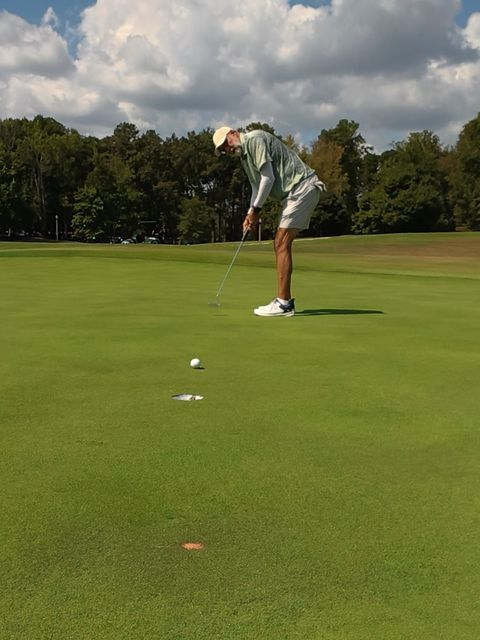
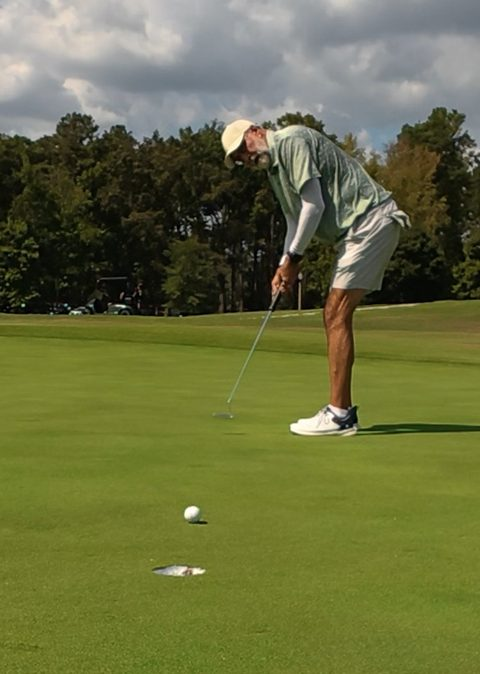
Tighter putt crop per Jim's markup, full aside width, two-line caption

diff --git a/index.html b/index.html
@@ -9,7 +9,7 @@
   <link rel="preconnect" href="https://fonts.googleapis.com" />
   <link rel="preconnect" href="https://fonts.gstatic.com" crossorigin />
   <link href="https://fonts.googleapis.com/css2?family=Outfit:wght@400;500;600;700&display=swap" rel="stylesheet" />
-  <link rel="stylesheet" href="css/styles.css?v=25" />
+  <link rel="stylesheet" href="css/styles.css?v=26" />
 </head>
 <body data-page="home">
   <header class="site-header">
@@ -57,8 +57,8 @@
           <p data-copy="lanes-intro" style="white-space: pre-wrap;"><strong>Learn-Forward:</strong> I am a relative neophyte in the golf industry, and I will support or fill any role, however perceptually menial... if I am learning.  And I am keen to match the requirements of the PGA Associates programme in these engagements.<br><br><strong>Experience-Led:</strong> I also have a long, multifaceted career and unique experience that may be valuable to your organisation via a project or fractional engagement.</p>
         </div>
           <figure class="photo photo-portrait">
-            <a class="photo-link" href="assets/first-even-par-putt.jpg" data-lightbox="" aria-label="Enlarge photo"><img src="assets/first-even-par-putt-sm.jpg" srcset="assets/first-even-par-putt-sm.jpg 480w, assets/first-even-par-putt.jpg 900w" sizes="(min-width: 720px) 260px, 70vw" width="480" height="640" alt="Jim putting on the final green at Pursell Farms, ball rolling towards the hole" loading="lazy" decoding="async"></a>
-            <figcaption>Final putt on my first even par round 😊 Pursell Farms - 16 Sep 2026</figcaption>
+            <a class="photo-link" href="assets/first-even-par-putt.jpg" data-lightbox="" aria-label="Enlarge photo"><img src="assets/first-even-par-putt-sm.jpg" srcset="assets/first-even-par-putt-sm.jpg 480w, assets/first-even-par-putt.jpg 900w" sizes="(min-width: 720px) 34vw, 100vw" width="480" height="674" alt="Jim putting on the final green at Pursell Farms, ball rolling towards the hole" loading="lazy" decoding="async"></a>
+            <figcaption>Final putt on my first even par round 😊<br>Pursell Farms - 16 Sep 2026</figcaption>
           </figure>
         </div>
         <div class="plank-grid" data-lanes=""><article class="plank"><div class="plank-icon" aria-hidden="true"><img src="assets/icons/player.svg?v=24" alt="" width="120" height="120" decoding="async"></div><h3>Player Development</h3><p class="plank-blurb">Impact-based development using the causal value framework: inputs, outputs, outcomes, impact.</p><ul class="plank-ex"><li><span class="lane">Learn-forward</span><span class="ex">Range and academy support, junior clinics, walk-with coaching days, bag-room and covering player-facing shifts.</span></li><li><span class="lane exp">Experience-led</span><span class="ex">Programme design, cohort measurement, and impact frameworks tied to what players actually retain.</span></li></ul></article><article class="plank"><div class="plank-icon" aria-hidden="true"><img src="assets/icons/tournaments.svg?v=24" alt="" width="120" height="120" decoding="async"></div><h3>Tournament Programming</h3><p class="plank-blurb">The entertaining, social and skills-testing nature of Tournaments is enticing. Ask me to help with either...</p><ul class="plank-ex"><li><span class="lane">Learn-forward</span><span class="ex">Marshaling, scoring, registration, hole setup, and day-of operations wherever an extra pair of hands matters.</span></li><li><span class="lane exp">Experience-led</span><span class="ex">Format design, skill-focused fields, communications &amp; marketing, and programming that makes the contest social, fun and/or skill-building.</span></li></ul></article><article class="plank"><div class="plank-icon" aria-hidden="true"><img src="assets/icons/media.svg?v=24" alt="" width="120" height="120" decoding="async"></div><h3>Media <br>Production</h3><p class="plank-blurb">Video and graphics production for courses, equipment providers, retailers, and other golf entities.</p><ul class="plank-ex"><li><span class="lane">Learn-forward</span><span class="ex">Grip and camera for on-course shoot days, simple editing, graphics production for meeting decks and comms, and production grunt work done well. Even Powerpoints. 😉</span></li><li><span class="lane exp">Experience-led</span><span class="ex">Story, series design, and finished packages that serve a commercial or programme goal for any of your audiences: crew, members, leadership or investors.</span></li></ul></article><article class="plank"><div class="plank-icon" aria-hidden="true"><img src="assets/icons/product.svg?v=24" alt="" width="120" height="120" decoding="async"></div><h3>Product Management</h3><p class="plank-blurb">Value optimisation and innovation for golf entities and their products &amp; services.</p><ul class="plank-ex"><li><span class="lane">Learn-forward</span><span class="ex">Embed with the team that does the work — from embedding with agronomy teams doing cup changes, the retail floor hawking goods, shadowing operations — so product talk stays honest.</span></li><li><span class="lane exp">Experience-led</span><span class="ex">Strategies, Roadmaps, Customer Research, and decisions that improve what you sell or how you deliver it. And the north stars you set and how you &amp; your team step-wise get there.</span></li></ul></article></div>

diff --git a/css/styles.css b/css/styles.css
@@ -536,14 +536,13 @@ body.cmodal-open{overflow:hidden}
 /* In-page photos + lightbox */
 .lanes-top { display: grid; gap: 1.5rem; margin-bottom: 2rem; align-items: start; }
 .lanes-top .section-head { margin-bottom: 0; }
-.photo { margin: 0 auto; max-width: 260px; width: 100%; }
+.photo { margin: 0; width: 100%; }
 .photo-link { display: block; border-radius: 1rem; overflow: hidden; cursor: zoom-in; box-shadow: 0 6px 20px rgba(0,0,0,0.12); }
-.photo img { display: block; width: 100%; height: auto; aspect-ratio: 3 / 4; object-fit: cover; transition: transform .25s; }
+.photo img { display: block; width: 100%; height: auto; aspect-ratio: 709 / 996; object-fit: cover; transition: transform .25s; }
 .photo-link:hover img { transform: scale(1.03); }
-.photo figcaption { margin-top: 0.6rem; font-size: 0.85rem; line-height: 1.35; color: var(--muted); text-align: center; }
+.photo figcaption { margin-top: 0.4rem; font-size: 0.75rem; line-height: 1.25; color: var(--muted); text-align: center; }
 @media (min-width: 720px) {
   .lanes-top { grid-template-columns: 1.4fr 0.9fr; gap: 2.5rem; }
-  .lanes-top .photo { margin: -1rem 0 0 auto; }
 }
 .lightbox { position: fixed; inset: 0; z-index: 1000; background: rgba(0,0,0,0.88); display: flex; flex-direction: column; align-items: center; justify-content: center; padding: 1.5rem; cursor: zoom-out; }
 .lightbox[hidden] { display: none; }

diff --git a/about.html b/about.html
@@ -8,7 +8,7 @@
   <link rel="preconnect" href="https://fonts.googleapis.com" />
   <link rel="preconnect" href="https://fonts.gstatic.com" crossorigin />
   <link href="https://fonts.googleapis.com/css2?family=Outfit:wght@400;500;600;700&display=swap" rel="stylesheet" />
-  <link rel="stylesheet" href="css/styles.css?v=25" />
+  <link rel="stylesheet" href="css/styles.css?v=26" />
 </head>
 <body data-page="about">
   <header class="site-header">

diff --git a/thanks.html b/thanks.html
@@ -8,7 +8,7 @@
   <link rel="preconnect" href="https://fonts.googleapis.com" />
   <link rel="preconnect" href="https://fonts.gstatic.com" crossorigin />
   <link href="https://fonts.googleapis.com/css2?family=Outfit:wght@400;500;600;700&display=swap" rel="stylesheet" />
-  <link rel="stylesheet" href="css/styles.css?v=25" />
+  <link rel="stylesheet" href="css/styles.css?v=26" />
 </head>
 <body data-page="about">
   <header class="site-header">
